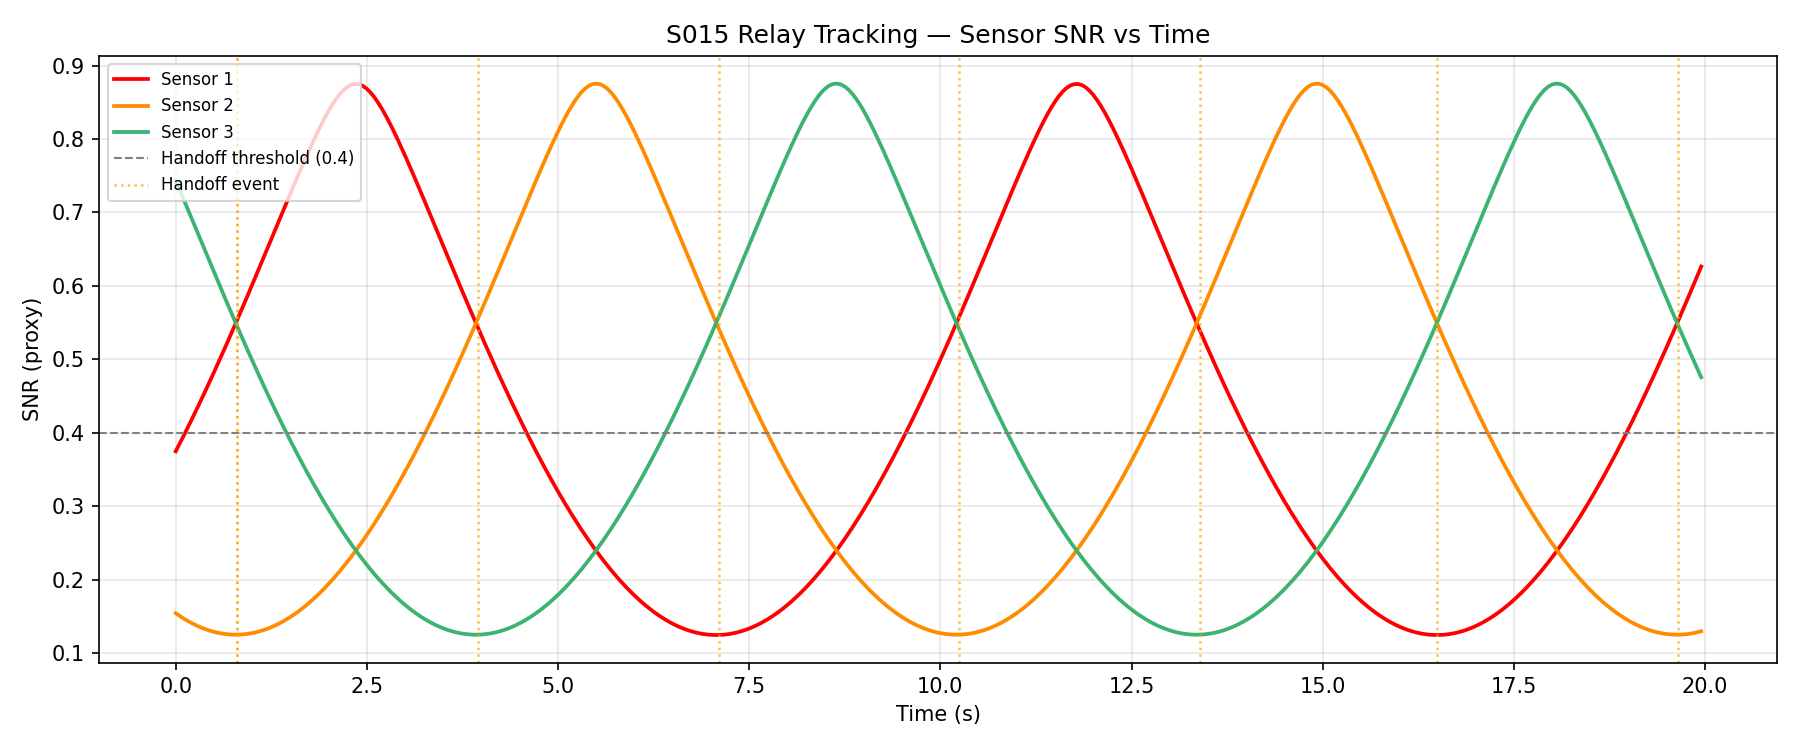
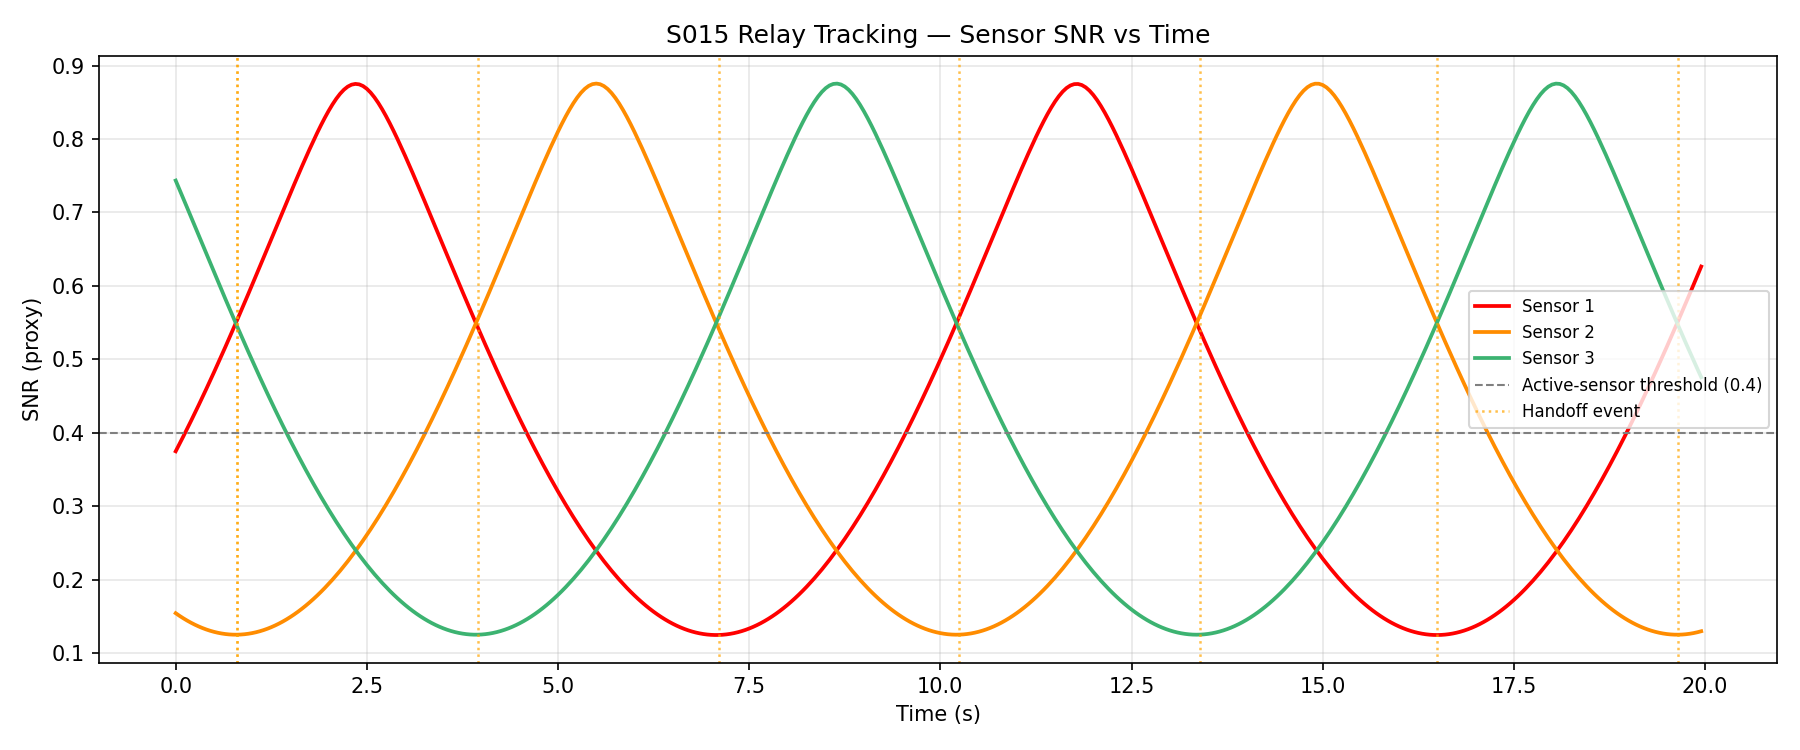
Fix S015 Relay Tracking: relabel SNR threshold line, print one-sensor and det-guard counts

Changed region(s): [[0.8089, 0.368, 0.9956, 0.5827], [0.0622, 0.092, 0.1867, 0.276], [0.1867, 0.092, 0.2178, 0.1227]]

diff --git a/src/01_pursuit_evasion/s015_relay_tracking.py b/src/01_pursuit_evasion/s015_relay_tracking.py
@@ -205,7 +205,7 @@ def plot_snr_over_time(times, true_pos, handoff_times, out_dir):
     for i, (snr_data, color) in enumerate(zip(snr_logs, SENSOR_COLORS)):
         ax.plot(times, snr_data, color=color, linewidth=1.8, label=f'Sensor {i+1}')
     ax.axhline(HANDOFF_THRESH, color='grey', linestyle='--', linewidth=1.0,
-               label=f'Handoff threshold ({HANDOFF_THRESH})')
+               label=f'Active-sensor threshold ({HANDOFF_THRESH})')
     for ht in handoff_times:
         ax.axvline(ht, color='orange', linestyle=':', linewidth=1.2, alpha=0.7)
     if handoff_times:
@@ -305,7 +305,9 @@ if __name__ == '__main__':
           f'offset {gaps.min():+.2f} to {gaps.max():+.2f} s, |offset| >= {np.abs(gaps).min():.2f} s; '
           f'bearing crossing angle {min(angles):.1f}-{max(angles):.1f} deg')
     print(f'Steps with two sensors above the {HANDOFF_THRESH} threshold: '
-          f'{int(np.sum(active_counts >= 2))} of {len(active_counts)}')
+          f'{int(np.sum(active_counts >= 2))} of {len(active_counts)} '
+          f'(one sensor: {int(np.sum(active_counts == 1))}); '
+          f'steps with no estimate (det guard): {int(np.sum(np.isnan(est_pos[:, 0])))}')
     print(f'Lowest best-sensor SNR along the orbit: '
           f'{min(max(snr(s, p) for s in SENSOR_POS) for p in true_pos):.4f}')
 
